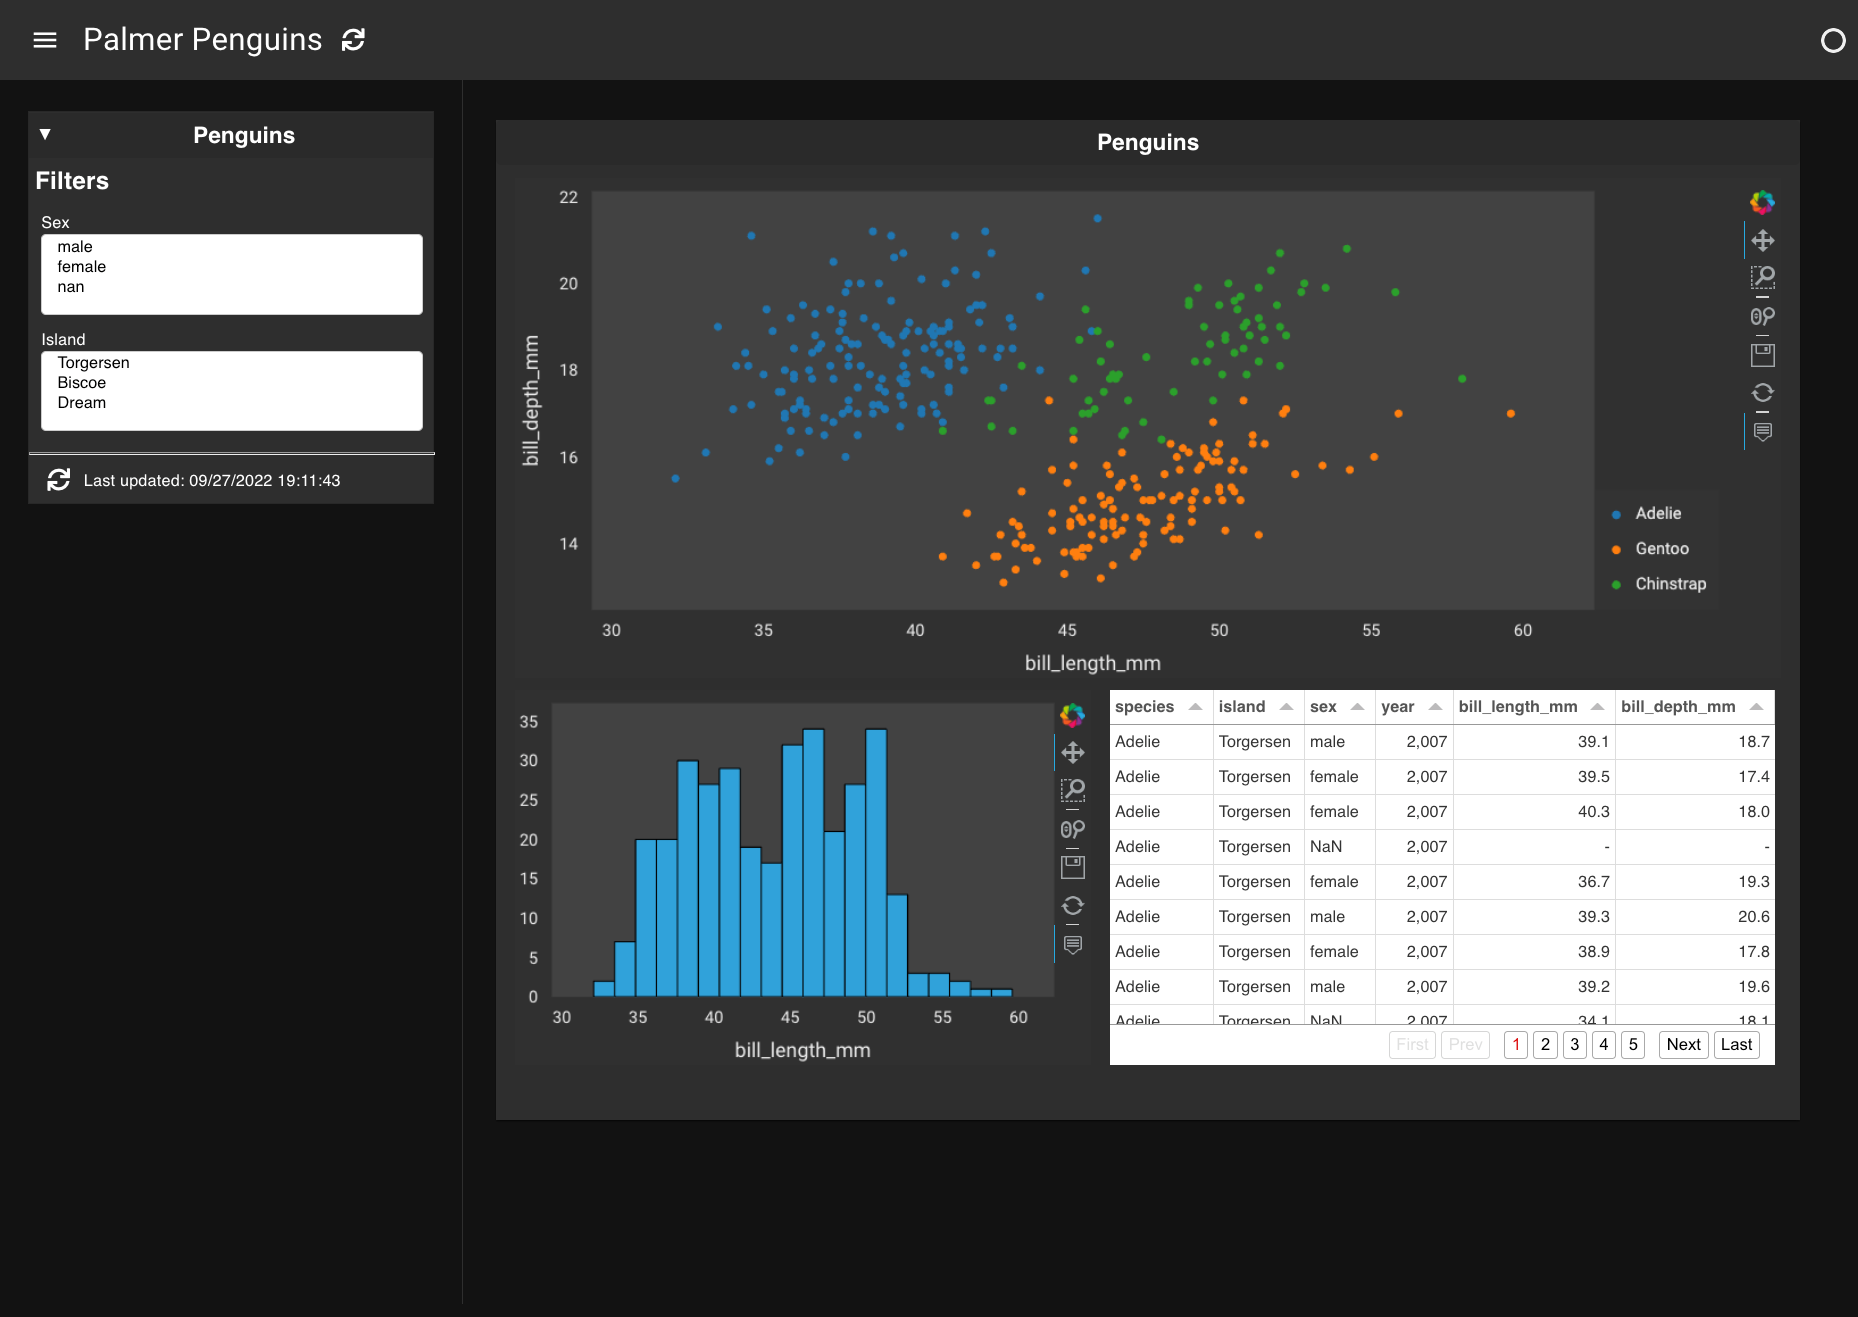
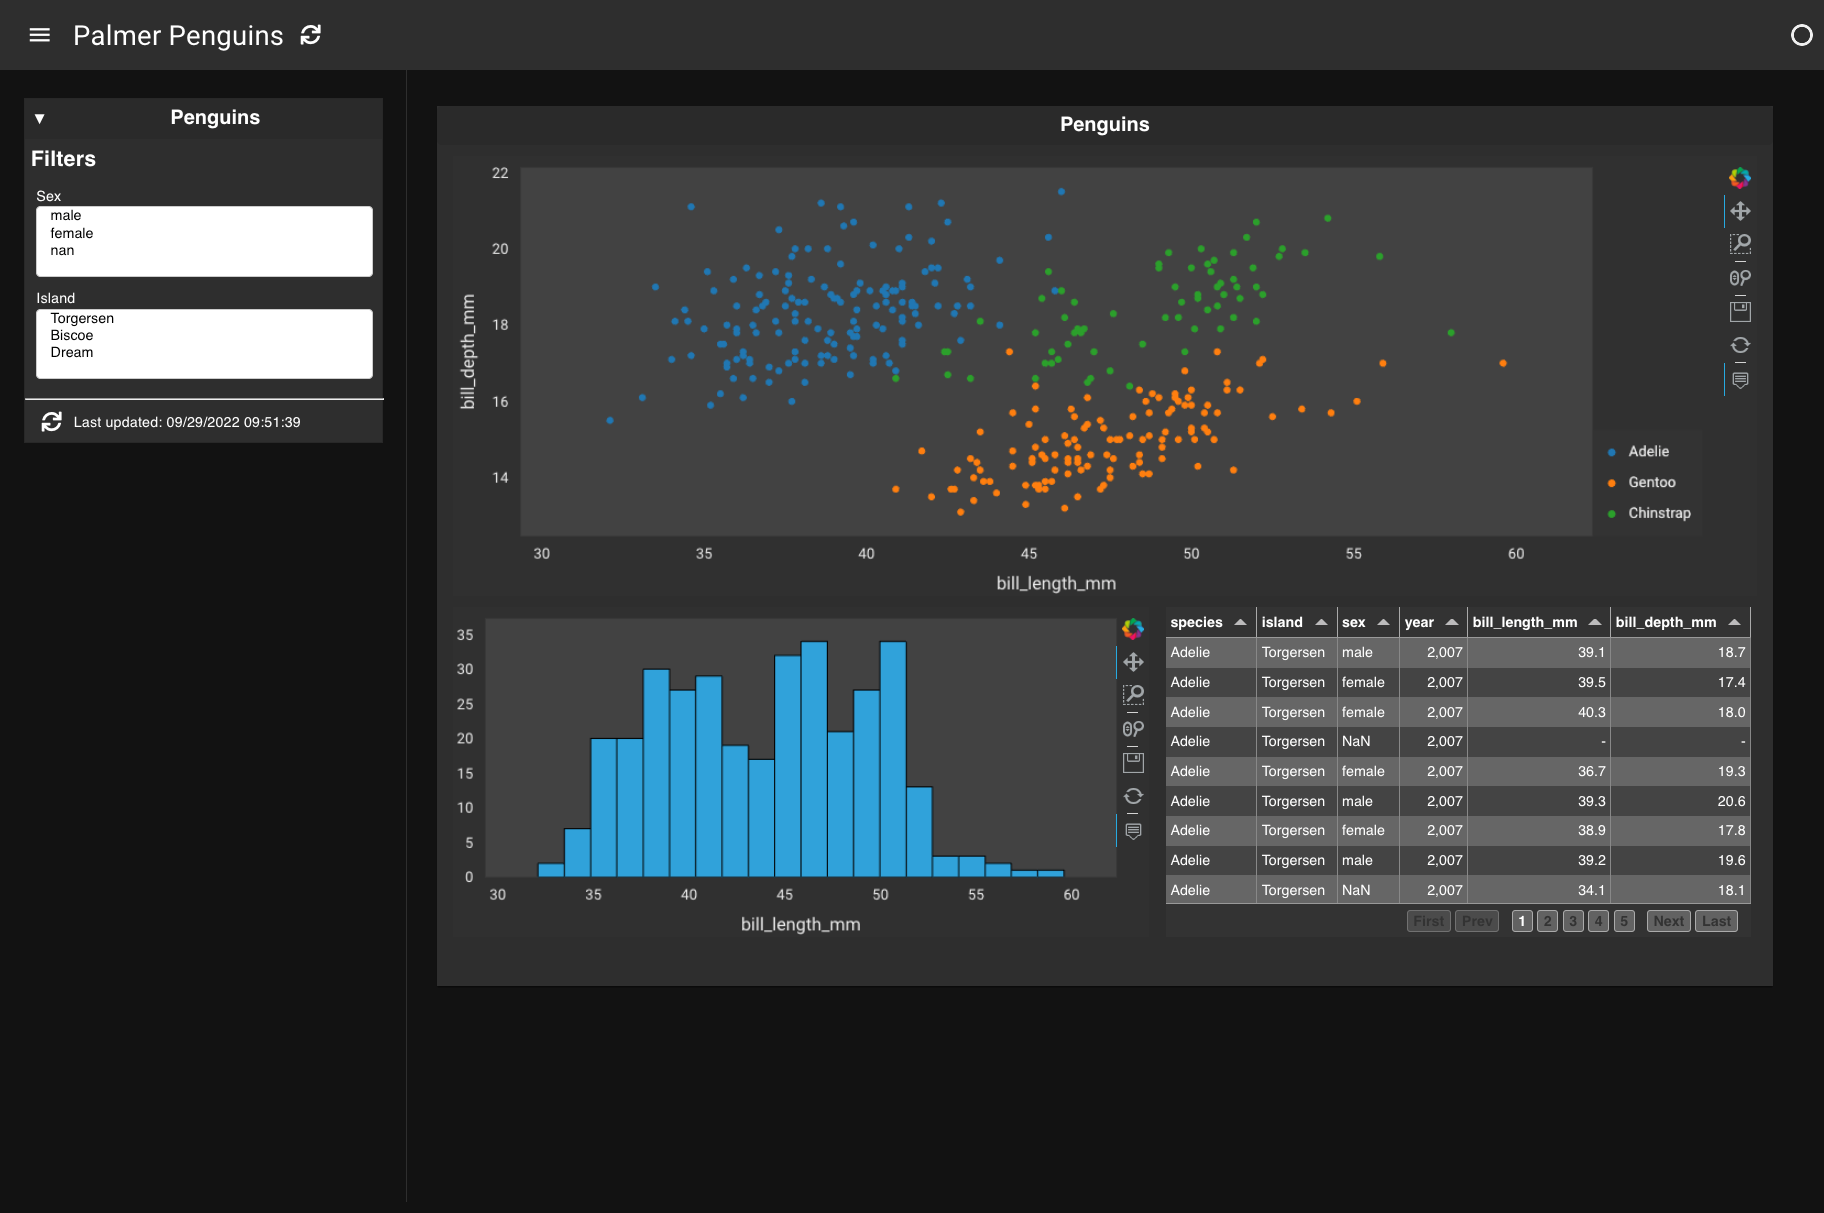
make tutorial table themed midnight

diff --git a/docs/getting_started/build_dashboard.md b/docs/getting_started/build_dashboard.md
@@ -308,13 +308,13 @@ targets:
 ::::
 
 ## 9. Add a title and theme
-Final step - let's give our dashboard a more descriptive title and change the theme to dark.
+Final step - let's use a `config` section to give our dashboard a more descriptive title and change the overall theme to dark. Note that we can also set our table to dark by adding a new *theme* parameter at the bottom.
 
 ::::{tab-set}
 :::{tab-item} YAML
 :sync: yaml
 ``` {code-block} yaml
-:emphasize-lines: 1-3
+:emphasize-lines: 1-3, 46
 
 config:
   title: Palmer Penguins
@@ -361,6 +361,7 @@ targets:
       - type: table
         show_index: false
         height: 300
+        theme: midnight
 
 ```
 :::
